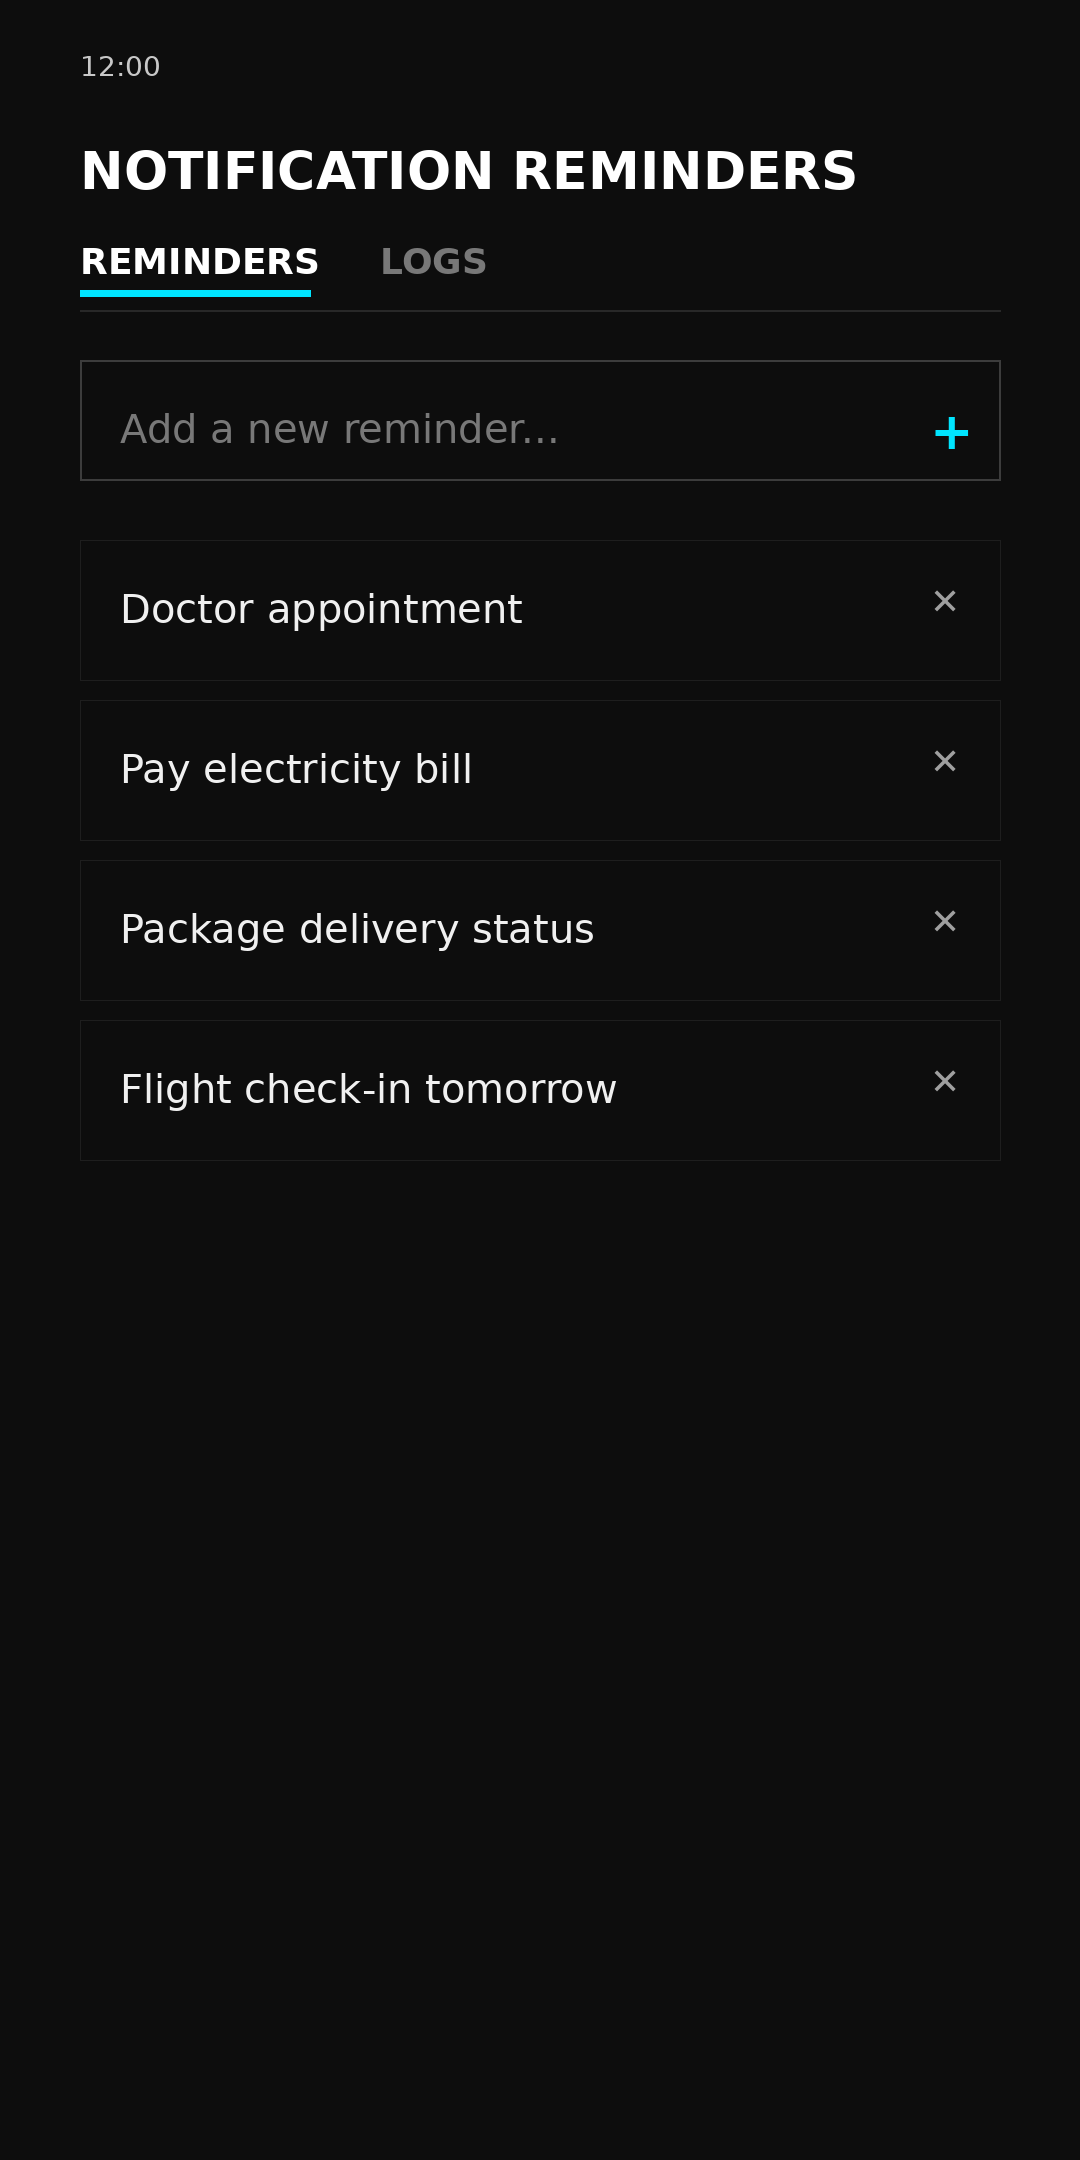
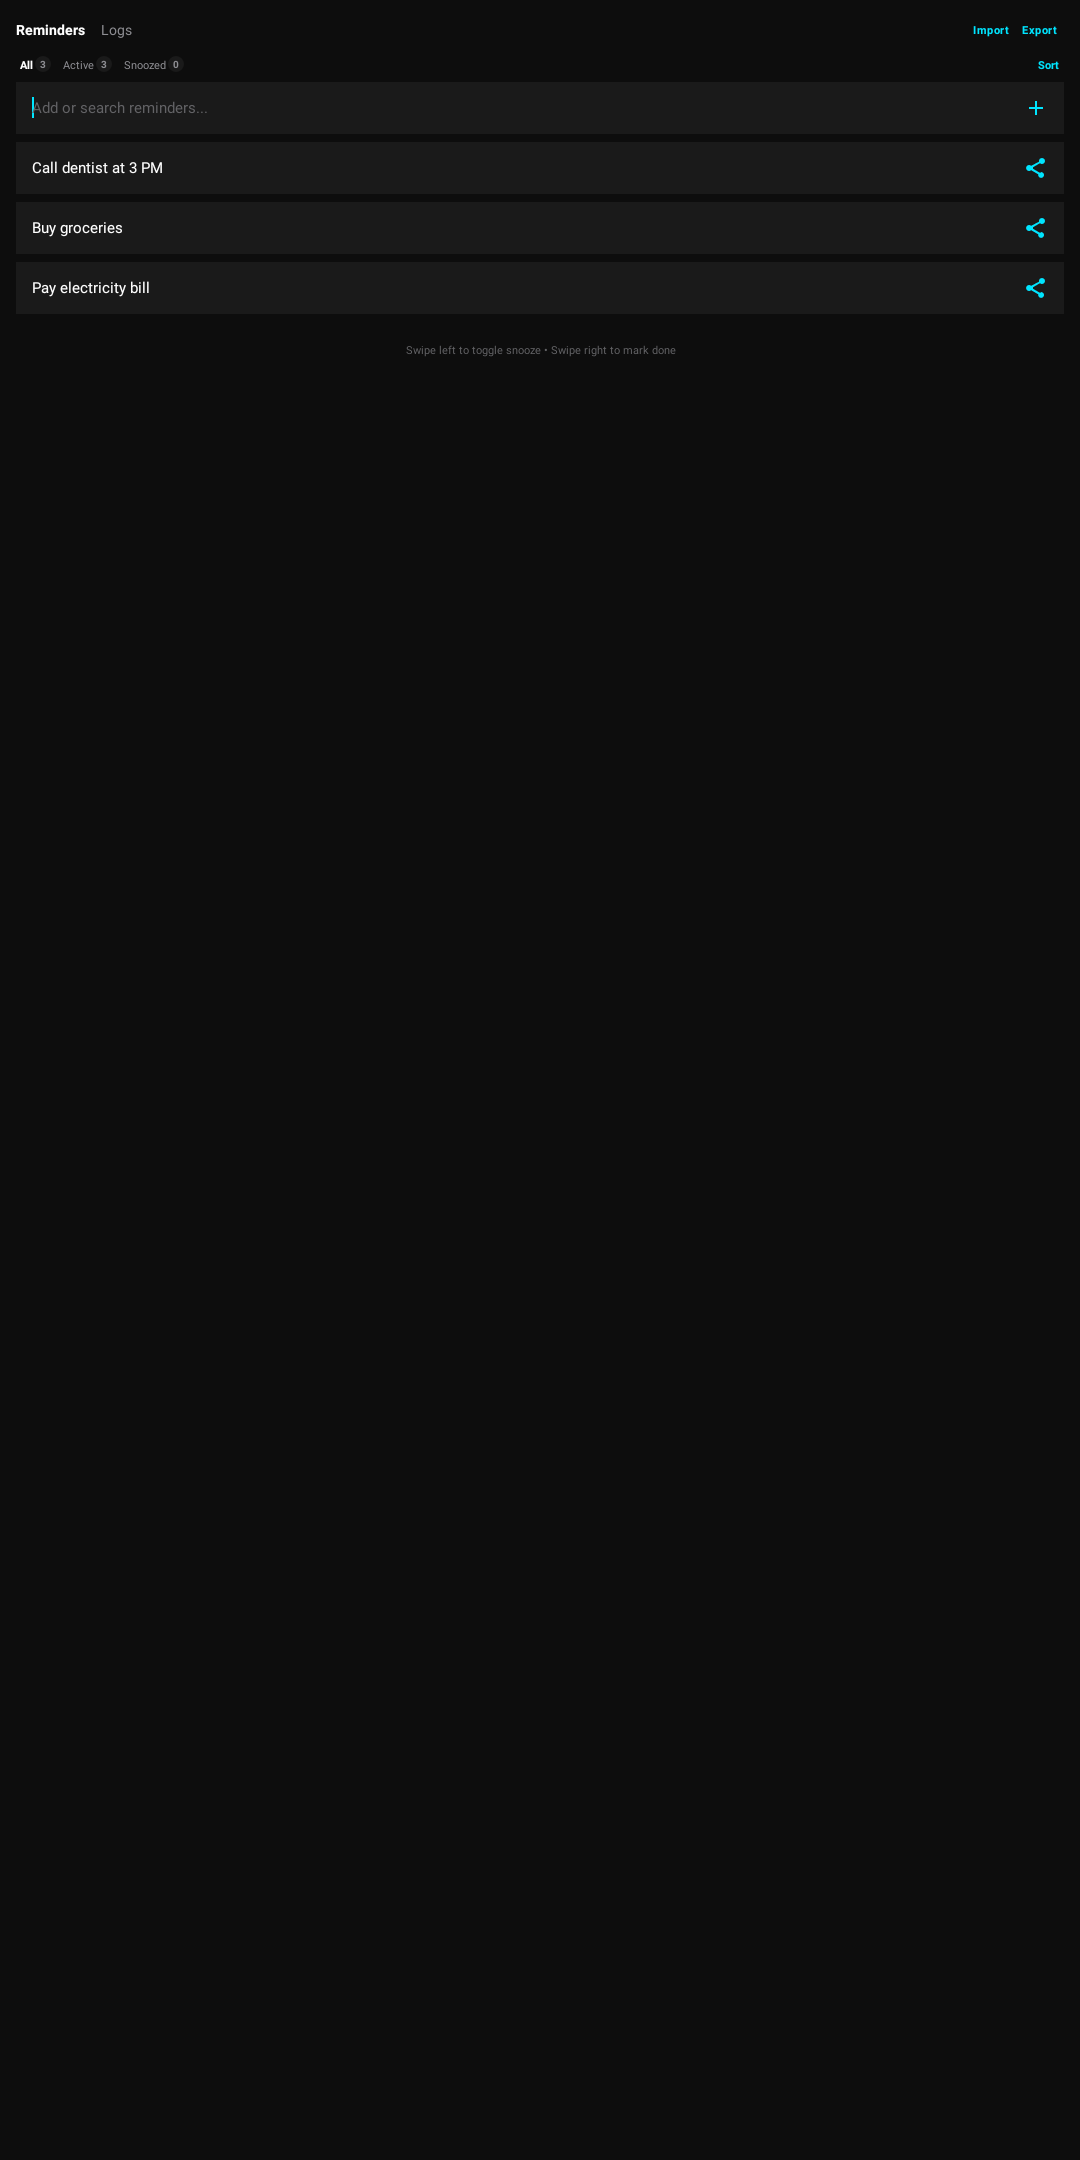
I have redesigned the main UI for managing todos and reminders:
- Show relative snooze status labels on snoozed reminders
- Implement filter controls (All, Active, Snoozed) with active count pills
- Implement sort controls (Default, Alphabetical, Status, Snooze ascending)
- Real-time search/add input with 200ms debounce and DiffUtil updates to retain input focus while typing
- Swipe gestures (swipe left to snooze/unsnooze, swipe right to mark complete) with an instruction footer
- Register BootCompletedReceiver for automatic background listener setup after reboot
- Document permissions in README.md

diff --git a/app/src/test/kotlin/com/bas080/notificationreminders/ScreenshotGeneratorTest.kt b/app/src/test/kotlin/com/bas080/notificationreminders/ScreenshotGeneratorTest.kt
@@ -1,0 +1,155 @@
+package com.bas080.notificationreminders
+
+import android.app.Notification
+import android.content.Context
+import android.graphics.Bitmap
+import android.graphics.Canvas
+import android.os.Bundle
+import android.os.Looper
+import android.service.notification.StatusBarNotification
+import android.view.View
+import android.widget.TextView
+import org.junit.After
+import org.junit.Assert.assertTrue
+import org.junit.Before
+import org.junit.Test
+import org.junit.runner.RunWith
+import org.robolectric.Robolectric
+import org.robolectric.RobolectricTestRunner
+import org.robolectric.RuntimeEnvironment
+import org.robolectric.Shadows.shadowOf
+import org.robolectric.annotation.Config
+import org.robolectric.annotation.GraphicsMode
+import org.robolectric.shadows.ShadowAlertDialog
+import com.bas080.notificationreminders.utils.AppLogger
+import java.io.File
+import java.io.FileOutputStream
+
+@RunWith(RobolectricTestRunner::class)
+@Config(sdk = [34])
+@GraphicsMode(GraphicsMode.Mode.NATIVE)
+class ScreenshotGeneratorTest {
+
+    private lateinit var screenshotsDir: File
+
+    @Before
+    fun setUp() {
+        var dir = File("fastlane/metadata/android/en-US/images/phoneScreenshots")
+        if (!dir.exists()) {
+            dir = File("../fastlane/metadata/android/en-US/images/phoneScreenshots")
+        }
+        if (!dir.exists()) {
+            dir.mkdirs()
+        }
+        assertTrue("phoneScreenshots directory must exist", dir.exists() && dir.isDirectory)
+        screenshotsDir = dir
+    }
+
+    @After
+    fun tearDown() {
+        PickNotificationActivity.mockActiveNotifications = null
+    }
+
+    @Test
+    fun captureFeatureScreenshots() {
+        captureRemindersListScreenshot()
+        captureLogsViewScreenshot()
+        captureNotificationDrawerScreenshot()
+    }
+
+    private fun captureRemindersListScreenshot() {
+        val app = RuntimeEnvironment.getApplication()
+        val prefs = app.getSharedPreferences("reminders_prefs", Context.MODE_PRIVATE)
+        val initialReminders = setOf("Buy groceries", "Call dentist at 3 PM", "Pay electricity bill")
+        prefs.edit().putStringSet("key_reminders_list", initialReminders).commit()
+
+        val controller = Robolectric.buildActivity(MainActivity::class.java).setup()
+        val activity = controller.get()
+        shadowOf(Looper.getMainLooper()).idle()
+
+        val decorView = activity.window.decorView
+        renderAndSaveView(decorView, File(screenshotsDir, "1.png"))
+    }
+
+    private fun captureLogsViewScreenshot() {
+        val app = RuntimeEnvironment.getApplication()
+        AppLogger.clearLogs(app)
+        AppLogger.log(app, "App", "Application started successfully")
+        AppLogger.log(app, "Service", "Notification listener service bound")
+        AppLogger.log(app, "Matcher", "Matched reminder: 'Buy groceries'")
+
+        val controller = Robolectric.buildActivity(MainActivity::class.java).setup()
+        val activity = controller.get()
+
+        val btnLogs = activity.findViewById<TextView>(R.id.btn_nav_logs)
+        btnLogs?.performClick()
+        shadowOf(Looper.getMainLooper()).idle()
+
+        val decorView = activity.window.decorView
+        renderAndSaveView(decorView, File(screenshotsDir, "2.png"))
+    }
+
+    private fun captureNotificationDrawerScreenshot() {
+        val sbn1 = createMockSbn("com.whatsapp", "WhatsApp", "Meeting with design team")
+        val sbn2 = createMockSbn("com.android.calendar", "Calendar", "Doctor's Appointment at 4 PM")
+        val sbn3 = createMockSbn("com.google.android.gm", "Email", "Flight confirmation")
+
+        PickNotificationActivity.mockActiveNotifications = arrayOf(sbn1, sbn2, sbn3)
+
+        val controller = Robolectric.buildActivity(PickNotificationActivity::class.java).setup()
+        val activity = controller.get()
+        shadowOf(Looper.getMainLooper()).idle()
+
+        val dialog = ShadowAlertDialog.getLatestDialog()
+        val viewToRender = dialog?.window?.decorView ?: activity.window.decorView
+
+        renderAndSaveView(viewToRender, File(screenshotsDir, "3.png"))
+    }
+
+    private fun createMockSbn(packageName: String, title: String, text: String): StatusBarNotification {
+        val context = RuntimeEnvironment.getApplication()
+        val extras = Bundle().apply {
+            putCharSequence("android.title", title)
+            putCharSequence("android.text", text)
+        }
+        @Suppress("DEPRECATION")
+        val notification = Notification.Builder(context, "test_channel")
+            .setExtras(extras)
+            .build()
+        @Suppress("DEPRECATION")
+        return StatusBarNotification(
+            packageName,
+            packageName,
+            1,
+            "tag",
+            1000,
+            1000,
+            1,
+            notification,
+            android.os.Process.myUserHandle(),
+            System.currentTimeMillis()
+        )
+    }
+
+    private fun renderAndSaveView(view: View, outputFile: File) {
+        val width = 1080
+        val height = 2160
+
+        view.measure(
+            View.MeasureSpec.makeMeasureSpec(width, View.MeasureSpec.EXACTLY),
+            View.MeasureSpec.makeMeasureSpec(height, View.MeasureSpec.EXACTLY)
+        )
+        view.layout(0, 0, width, height)
+
+        val bitmap = Bitmap.createBitmap(width, height, Bitmap.Config.ARGB_8888)
+        val canvas = Canvas(bitmap)
+        view.draw(canvas)
+
+        FileOutputStream(outputFile).use { out ->
+            bitmap.compress(Bitmap.CompressFormat.PNG, 100, out)
+        }
+
+        assertTrue("Screenshot ${outputFile.name} should exist", outputFile.exists())
+        assertTrue("Screenshot ${outputFile.name} should not be empty", outputFile.length() > 0)
+    }
+}

diff --git a/README.md b/README.md
@@ -29,6 +29,8 @@ A simple Android application that keeps track of your reminders and alerts you w
 - **In-App Activity Logs**: Easily view app activity logs directly inside the app.
 - **Automatic Crash Reporting**: Includes a simple optional crash report helper if something unexpected occurs.
 
+To view screenshots of the app features, check out the [Screenshots Gallery](fastlane/metadata/android/en-US/images/phoneScreenshots/).
+
 ## Permissions
 
 The app requests minimal Android system permissions to operate transparently:
